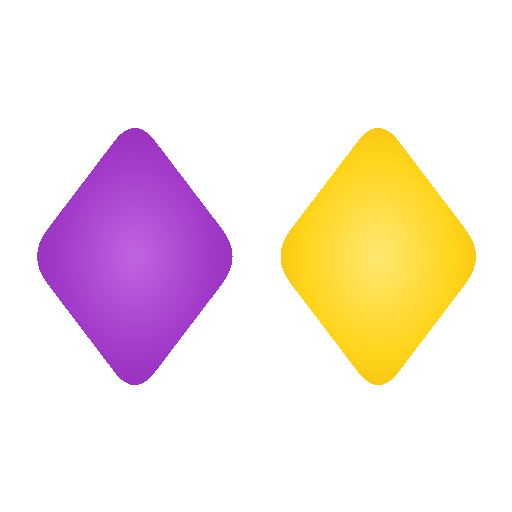
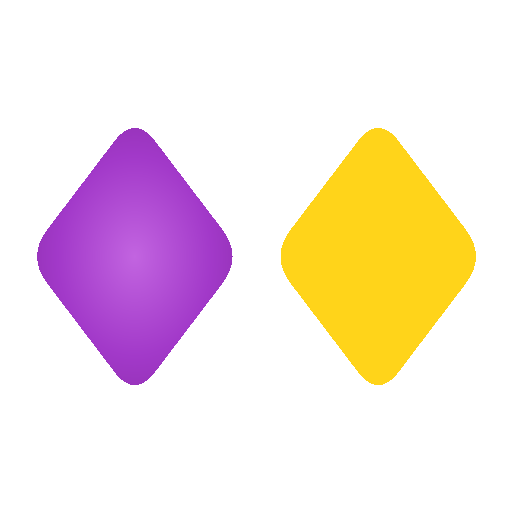
One yellow everywhere, including the pictures Google actually fetches
The mark's gold diamond was flattened from a three-tone gradient to a single
#ffd41a. That change reached index.html and the page generated from it, and
stopped there. Everything else on the site kept drawing the old one.

Five pages -- browse, admin, account, privacy, terms -- still carried the
three-stop gradient in their own <defs>. Each page ships its own copy of the
mark, so this was not a subtle difference in shading: it was a different logo
on the same site, one click from the first. All seven now hold the same block,
and the comment above it no longer describes a gradient that is not there
("pale at the centre, warm amber at the rim") over three identical stops.

The pictures mattered more, because they are the ones Google fetches. A search
result, a shared link, an installed icon and an ad's image asset do not read
the page's SVG; they read og-image.png and the five files in /icons. Every one
of those still showed the old gradient. They do not any more.

They were regenerated by flattening the gold diamond in place rather than
redrawing the files: the same geometry, the same anti-aliased edges, only the
fill changed, so nothing else in those images moved. In the Open Graph card
that mattered -- the wordmark, the headline and the two gold words beside it
are untouched to the pixel, and only the diamond changed.

scripts/make-icons.ps1 is why this would have come back. It carries its own
copy of the two palettes and still held the old '#ffe873', '#ffd41a',
[…]

Changed region(s): [[0.625, 0.3438, 0.875, 0.6562]]

diff --git a/account.html b/account.html
@@ -153,13 +153,19 @@
       <stop offset="55%" stop-color="#a239c9"/>
       <stop offset="100%" stop-color="#7c2596"/>
     </radialGradient>
-    <!-- The same three-stop build as the violet one, in the yellow off the
-         tail of the fish: pale at the centre, the tail colour in the middle,
-         warm amber at the rim where the tail runs into orange. -->
+    <!-- One yellow, not three. The violet beside it is a real gradient; this
+         one is a gradient element holding the same colour at every stop, which
+         is a flat fill written in the shape the violet uses. Kept that way so
+         the two marks stay obviously siblings in the file, and so putting a
+         gradient back is a matter of changing values rather than markup.
+
+         Every page draws the mark from this block, so a page that keeps its
+         own stops does not have a slightly different logo -- it has a
+         different logo, on the same site, one click away from the first. -->
     <radialGradient id="diamondGold" cx="50%" cy="50%" r="75%">
-      <stop offset="0%" stop-color="#ffe873"/>
+      <stop offset="0%" stop-color="#ffd41a"/>
       <stop offset="45%" stop-color="#ffd41a"/>
-      <stop offset="100%" stop-color="#e0a005"/>
+      <stop offset="100%" stop-color="#ffd41a"/>
     </radialGradient>
     <path id="diamondShape" d="M118.15,28.88 Q100,5 81.85,28.88 L23.15,106.12 Q5,130 23.15,153.88 L81.85,231.12 Q100,255 118.15,231.12 L176.85,153.88 Q195,130 176.85,106.12 Z"/>
   </defs>

diff --git a/admin.html b/admin.html
@@ -135,13 +135,19 @@
       <stop offset="55%" stop-color="#a239c9"/>
       <stop offset="100%" stop-color="#7c2596"/>
     </radialGradient>
-    <!-- The same three-stop build as the violet one, in the yellow off the
-         tail of the fish: pale at the centre, the tail colour in the middle,
-         warm amber at the rim where the tail runs into orange. -->
+    <!-- One yellow, not three. The violet beside it is a real gradient; this
+         one is a gradient element holding the same colour at every stop, which
+         is a flat fill written in the shape the violet uses. Kept that way so
+         the two marks stay obviously siblings in the file, and so putting a
+         gradient back is a matter of changing values rather than markup.
+
+         Every page draws the mark from this block, so a page that keeps its
+         own stops does not have a slightly different logo -- it has a
+         different logo, on the same site, one click away from the first. -->
     <radialGradient id="diamondGold" cx="50%" cy="50%" r="75%">
-      <stop offset="0%" stop-color="#ffe873"/>
+      <stop offset="0%" stop-color="#ffd41a"/>
       <stop offset="45%" stop-color="#ffd41a"/>
-      <stop offset="100%" stop-color="#e0a005"/>
+      <stop offset="100%" stop-color="#ffd41a"/>
     </radialGradient>
     <path id="diamondShape" d="M118.15,28.88 Q100,5 81.85,28.88 L23.15,106.12 Q5,130 23.15,153.88 L81.85,231.12 Q100,255 118.15,231.12 L176.85,153.88 Q195,130 176.85,106.12 Z"/>
   </defs>

diff --git a/browse.html b/browse.html
@@ -151,13 +151,19 @@
       <stop offset="55%" stop-color="#a239c9"/>
       <stop offset="100%" stop-color="#7c2596"/>
     </radialGradient>
-    <!-- The same three-stop build as the violet one, in the yellow off the
-         tail of the fish: pale at the centre, the tail colour in the middle,
-         warm amber at the rim where the tail runs into orange. -->
+    <!-- One yellow, not three. The violet beside it is a real gradient; this
+         one is a gradient element holding the same colour at every stop, which
+         is a flat fill written in the shape the violet uses. Kept that way so
+         the two marks stay obviously siblings in the file, and so putting a
+         gradient back is a matter of changing values rather than markup.
+
+         Every page draws the mark from this block, so a page that keeps its
+         own stops does not have a slightly different logo -- it has a
+         different logo, on the same site, one click away from the first. -->
     <radialGradient id="diamondGold" cx="50%" cy="50%" r="75%">
-      <stop offset="0%" stop-color="#ffe873"/>
+      <stop offset="0%" stop-color="#ffd41a"/>
       <stop offset="45%" stop-color="#ffd41a"/>
-      <stop offset="100%" stop-color="#e0a005"/>
+      <stop offset="100%" stop-color="#ffd41a"/>
     </radialGradient>
     <path id="diamondShape" d="M118.15,28.88 Q100,5 81.85,28.88 L23.15,106.12 Q5,130 23.15,153.88 L81.85,231.12 Q100,255 118.15,231.12 L176.85,153.88 Q195,130 176.85,106.12 Z"/>
   </defs>

diff --git a/privacy.html b/privacy.html
@@ -76,13 +76,19 @@
       <stop offset="55%" stop-color="#a239c9"/>
       <stop offset="100%" stop-color="#7c2596"/>
     </radialGradient>
-    <!-- The same three-stop build as the violet one, in the yellow off the
-         tail of the fish: pale at the centre, the tail colour in the middle,
-         warm amber at the rim where the tail runs into orange. -->
+    <!-- One yellow, not three. The violet beside it is a real gradient; this
+         one is a gradient element holding the same colour at every stop, which
+         is a flat fill written in the shape the violet uses. Kept that way so
+         the two marks stay obviously siblings in the file, and so putting a
+         gradient back is a matter of changing values rather than markup.
+
+         Every page draws the mark from this block, so a page that keeps its
+         own stops does not have a slightly different logo -- it has a
+         different logo, on the same site, one click away from the first. -->
     <radialGradient id="diamondGold" cx="50%" cy="50%" r="75%">
-      <stop offset="0%" stop-color="#ffe873"/>
+      <stop offset="0%" stop-color="#ffd41a"/>
       <stop offset="45%" stop-color="#ffd41a"/>
-      <stop offset="100%" stop-color="#e0a005"/>
+      <stop offset="100%" stop-color="#ffd41a"/>
     </radialGradient>
     <path id="diamondShape" d="M118.15,28.88 Q100,5 81.85,28.88 L23.15,106.12 Q5,130 23.15,153.88 L81.85,231.12 Q100,255 118.15,231.12 L176.85,153.88 Q195,130 176.85,106.12 Z"/>
   </defs>

diff --git a/terms.html b/terms.html
@@ -73,13 +73,19 @@
       <stop offset="55%" stop-color="#a239c9"/>
       <stop offset="100%" stop-color="#7c2596"/>
     </radialGradient>
-    <!-- The same three-stop build as the violet one, in the yellow off the
-         tail of the fish: pale at the centre, the tail colour in the middle,
-         warm amber at the rim where the tail runs into orange. -->
+    <!-- One yellow, not three. The violet beside it is a real gradient; this
+         one is a gradient element holding the same colour at every stop, which
+         is a flat fill written in the shape the violet uses. Kept that way so
+         the two marks stay obviously siblings in the file, and so putting a
+         gradient back is a matter of changing values rather than markup.
+
+         Every page draws the mark from this block, so a page that keeps its
+         own stops does not have a slightly different logo -- it has a
+         different logo, on the same site, one click away from the first. -->
     <radialGradient id="diamondGold" cx="50%" cy="50%" r="75%">
-      <stop offset="0%" stop-color="#ffe873"/>
+      <stop offset="0%" stop-color="#ffd41a"/>
       <stop offset="45%" stop-color="#ffd41a"/>
-      <stop offset="100%" stop-color="#e0a005"/>
+      <stop offset="100%" stop-color="#ffd41a"/>
     </radialGradient>
     <path id="diamondShape" d="M118.15,28.88 Q100,5 81.85,28.88 L23.15,106.12 Q5,130 23.15,153.88 L81.85,231.12 Q100,255 118.15,231.12 L176.85,153.88 Q195,130 176.85,106.12 Z"/>
   </defs>

diff --git a/business.html b/business.html
@@ -1445,9 +1445,15 @@
       <stop offset="45%" stop-color="#a239c9"/>
       <stop offset="100%" stop-color="#7c2596"/>
     </radialGradient>
-    <!-- The same three-stop build as the violet one, in the yellow off the
-         tail of the fish: pale at the centre, the tail colour in the middle,
-         warm amber at the rim where the tail runs into orange. -->
+    <!-- One yellow, not three. The violet beside it is a real gradient; this
+         one is a gradient element holding the same colour at every stop, which
+         is a flat fill written in the shape the violet uses. Kept that way so
+         the two marks stay obviously siblings in the file, and so putting a
+         gradient back is a matter of changing values rather than markup.
+
+         Every page draws the mark from this block, so a page that keeps its
+         own stops does not have a slightly different logo -- it has a
+         different logo, on the same site, one click away from the first. -->
     <radialGradient id="diamondGold" cx="50%" cy="50%" r="75%">
       <stop offset="0%" stop-color="#ffd41a"/>
       <stop offset="45%" stop-color="#ffd41a"/>

diff --git a/index.html b/index.html
@@ -1445,9 +1445,15 @@
       <stop offset="45%" stop-color="#a239c9"/>
       <stop offset="100%" stop-color="#7c2596"/>
     </radialGradient>
-    <!-- The same three-stop build as the violet one, in the yellow off the
-         tail of the fish: pale at the centre, the tail colour in the middle,
-         warm amber at the rim where the tail runs into orange. -->
+    <!-- One yellow, not three. The violet beside it is a real gradient; this
+         one is a gradient element holding the same colour at every stop, which
+         is a flat fill written in the shape the violet uses. Kept that way so
+         the two marks stay obviously siblings in the file, and so putting a
+         gradient back is a matter of changing values rather than markup.
+
+         Every page draws the mark from this block, so a page that keeps its
+         own stops does not have a slightly different logo -- it has a
+         different logo, on the same site, one click away from the first. -->
     <radialGradient id="diamondGold" cx="50%" cy="50%" r="75%">
       <stop offset="0%" stop-color="#ffd41a"/>
       <stop offset="45%" stop-color="#ffd41a"/>

diff --git a/service-worker.js b/service-worker.js
@@ -1,4 +1,4 @@
-const CACHE_VERSION = "v206";
+const CACHE_VERSION = "v207";
 const CACHE_NAME = "rotabo-cache-" + CACHE_VERSION;
 
 // Where Google tag gateway serves gtag.js and receives its measurement
